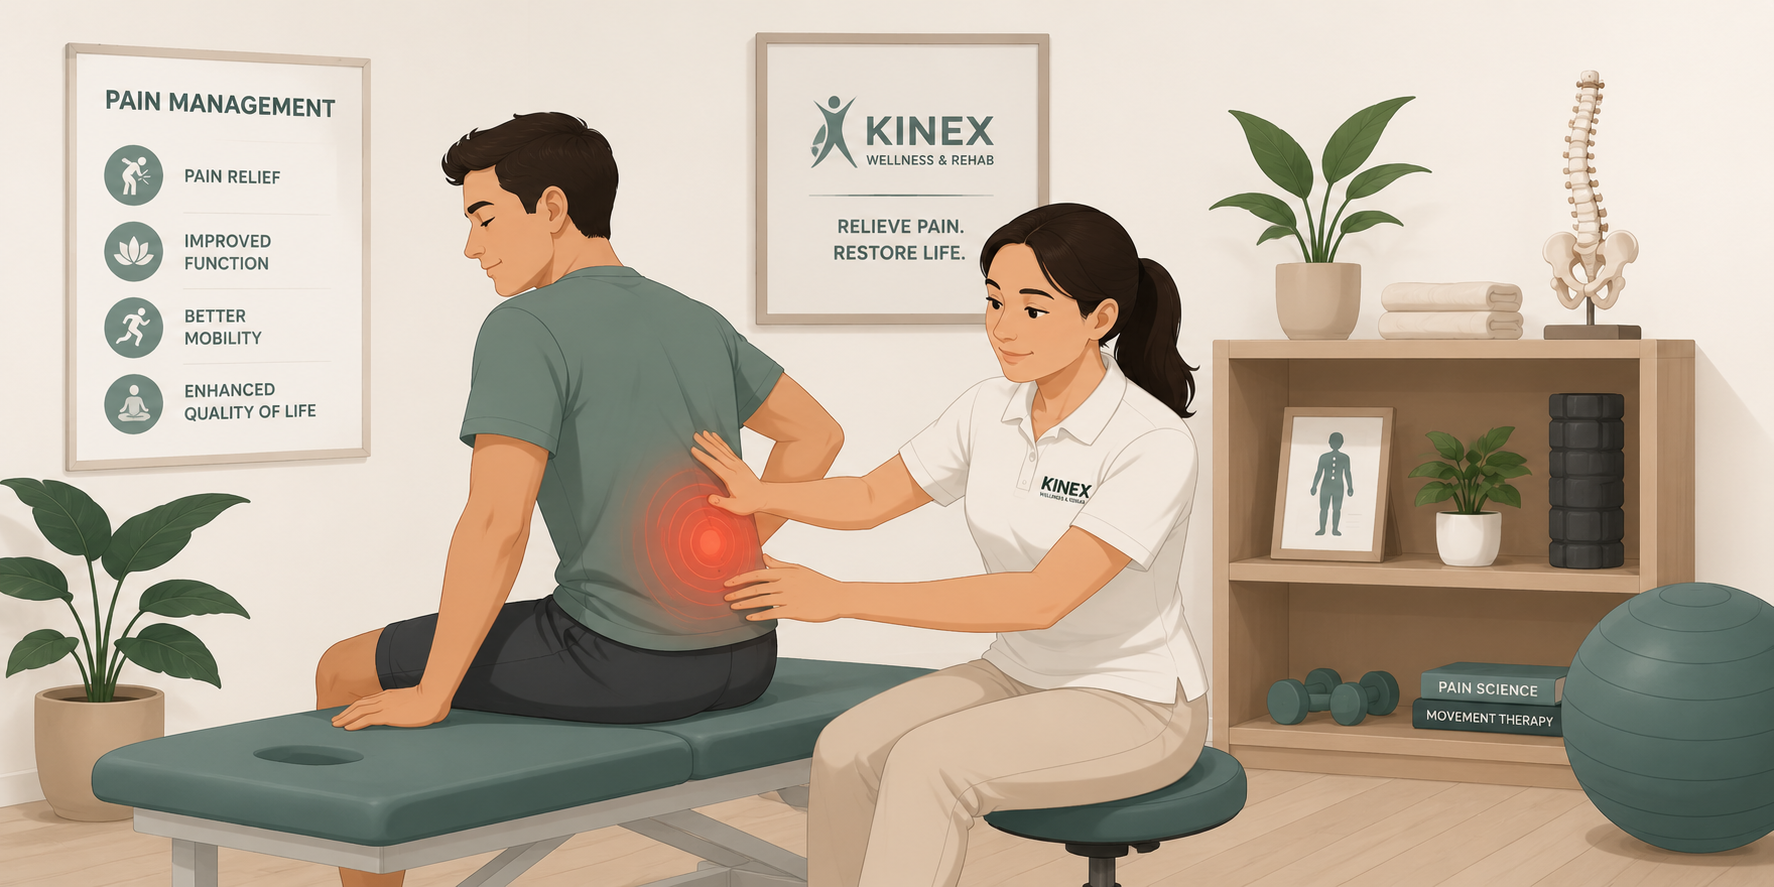
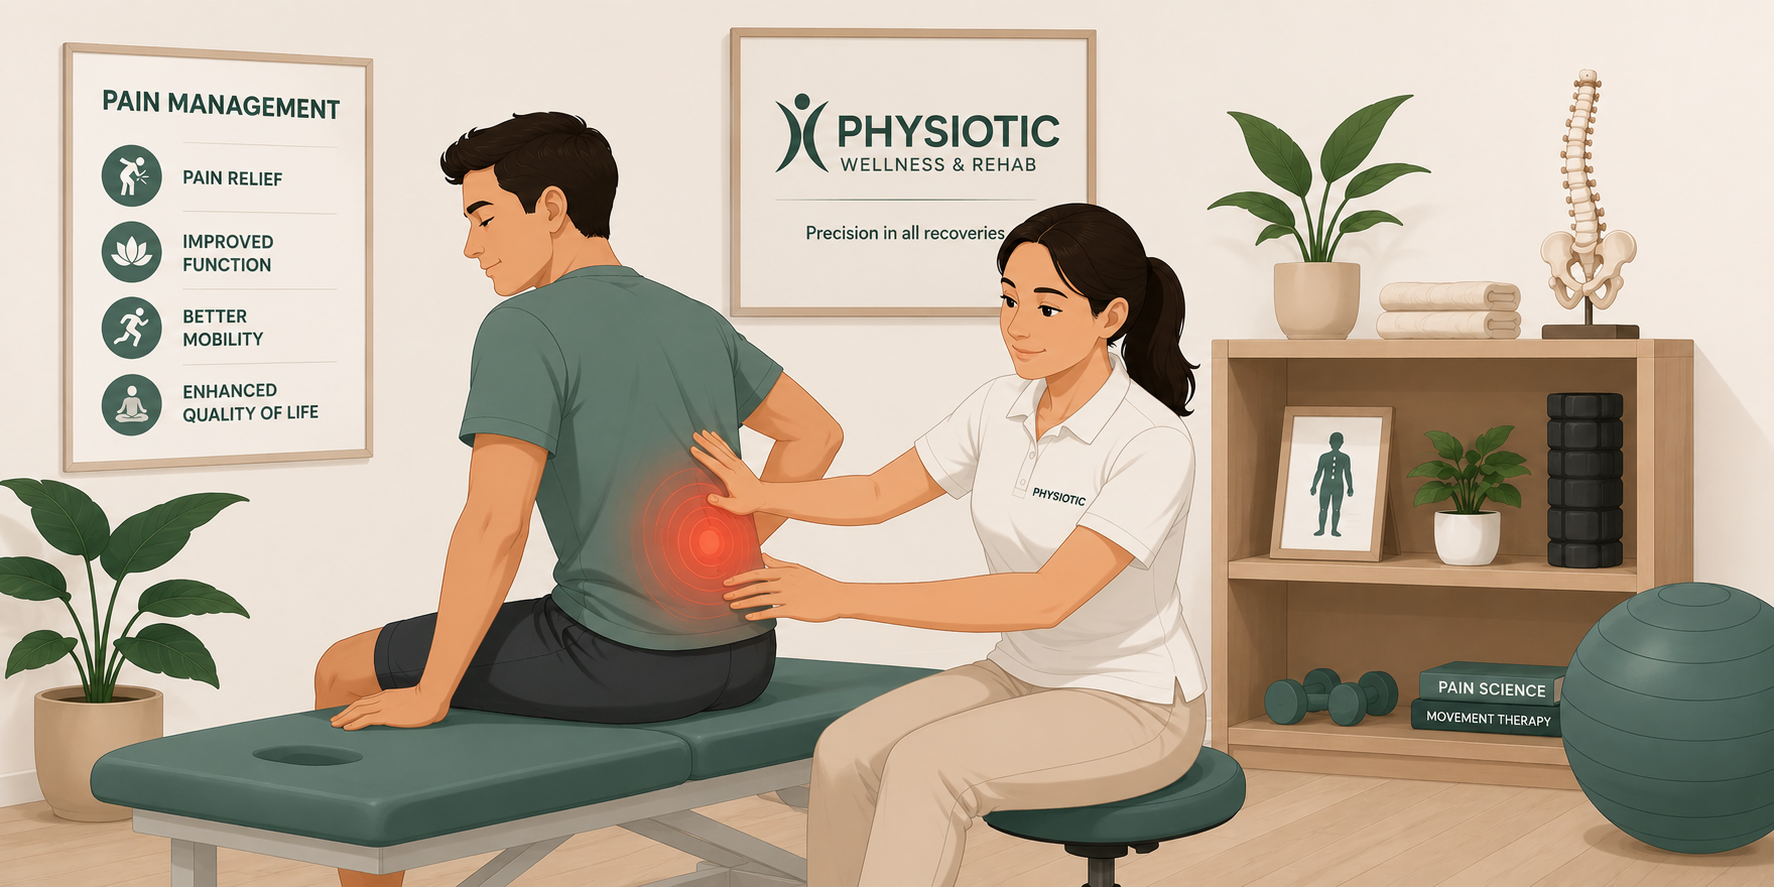
feat: update clinic team images and stats, adjust clinic location coordinates

diff --git a/frontend/src/components/sections/Stats.jsx b/frontend/src/components/sections/Stats.jsx
@@ -1,6 +1,5 @@
 const STATS = [
   { value: "99%", label: "Patient Satisfaction" },
-  { value: "15k+", label: "Staff Professionals" },
   { value: "24/7", label: "Available Assistant" },
   { value: "120+", label: "Medical Specialized" },
 ];
@@ -8,12 +7,12 @@ const STATS = [
 export default function Stats() {
   return (
     <section className="relative z-20 mt-8 md:-mt-14 px-6 md:px-8">
-      <div className="max-w-7xl mx-auto bg-surface-container-lowest rounded-xl shadow-2xl p-6 md:p-8">
-        <div className="grid grid-cols-2 md:grid-cols-4 gap-6 md:gap-8">
+      <div className="max-w-5xl mx-auto bg-surface-container-lowest rounded-xl shadow-2xl p-6 md:p-8">
+        <div className="grid grid-cols-3 gap-4 sm:gap-6 md:gap-8">
           {STATS.map((s) => (
             <div
               key={s.label}
-              className="flex flex-col items-center md:items-start text-center md:text-left"
+              className="flex flex-col items-center text-center"
             >
               <span className="text-3xl font-headline font-bold text-primary mb-1">
                 {s.value}

diff --git a/frontend/src/components/sections/Team.jsx b/frontend/src/components/sections/Team.jsx
@@ -1,16 +1,17 @@
-import doctor from "../../../assets/images/doctor.png";
+import drmaheshwar from "../../../assets/images/drmaheshwar.png";
+import drvarsha from "../../../assets/images/drvarsha.png";
 const TEAM = [
   {
     name: "Dr. Maheshwar Prajapati",
     role: "Lead Physiotherapist",
     bio: "Specializing in advanced musculoskeletal recovery, Dr. Prajapati integrates traditional techniques with modern kinetic science. His approach focuses on precision-based movement patterns and neurological re-education to ensure long-term physical resilience.",
-    image: doctor,
+    image: drmaheshwar,
   },
   {
     name: "Dr. Varsha",
     role: "Clinical Director",
     bio: "With a focus on holistic patient journeys, Dr. Varsha oversees the integration of clinical excellence and wellness protocols. Her leadership ensures that every patient's recovery is supported by empathetic guidance and evidence-based clinical strategies.",
-    image: null,
+    image: drvarsha,
   },
 ];
 

diff --git a/frontend/src/components/ClinicLocationCard.tsx b/frontend/src/components/ClinicLocationCard.tsx
@@ -11,10 +11,10 @@ declare global {
 const CLINIC = {
   name: "Physiotic Care",
   address: "Plot no. S-9, Dayanand Park, Shalimar garden extension, Ghaziabad, Uttar Pradesh, 201005",
-  latitude: 28.691730863319652,
-  longitude: 77.34159832311803,
+  latitude: 28.69136310260634,
+  longitude: 77.34099761858069,
   hours: [
-    { day: "Mon - Fri", time: "08:00 - 20:00" },
+    { day: "Mon - Fri", time: "08:00 - 20:00" },  
     { day: "Saturday", time: "09:00 - 16:00" },
     { day: "Sunday", time: "Emergency Only", emergency: true },
   ],
